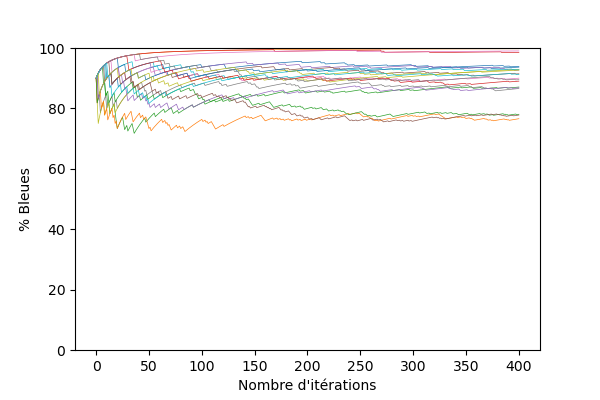
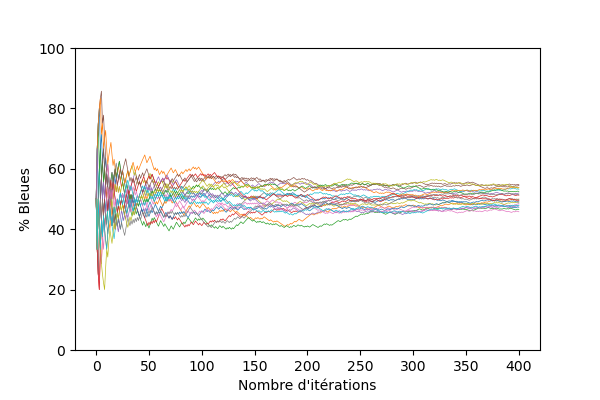
smol fix

Changed region(s): [[0.15, 0.12, 0.87, 0.72]]

diff --git a/UrnesDePolyaV2.py b/UrnesDePolyaV2.py
@@ -37,11 +37,9 @@ def tracerUrnes(nbIt:int, nbSim:int, bPiochéAddBleu:int,bPiochéAddRouge:int,rP
                     nbBleu*=rPiochéAddBleu
             elif operation=="Aléatoire":
                 if(rdm==1) :
-                  nbBleu+=bPiochéAddBleu
-                  nbRouge+=bPiochéAddRouge
+                  nbBleu+=1
                 else :
-                    nbRouge+=rPiochéAddRouge
-                    nbBleu+=rPiochéAddBleu
+                    nbRouge+=1
             else :
                 raise IllegalArgumentError("Operation lors du tirage impossible")
             tauxBleuList.append(100*nbBleu/(nbBleu+nbRouge))
